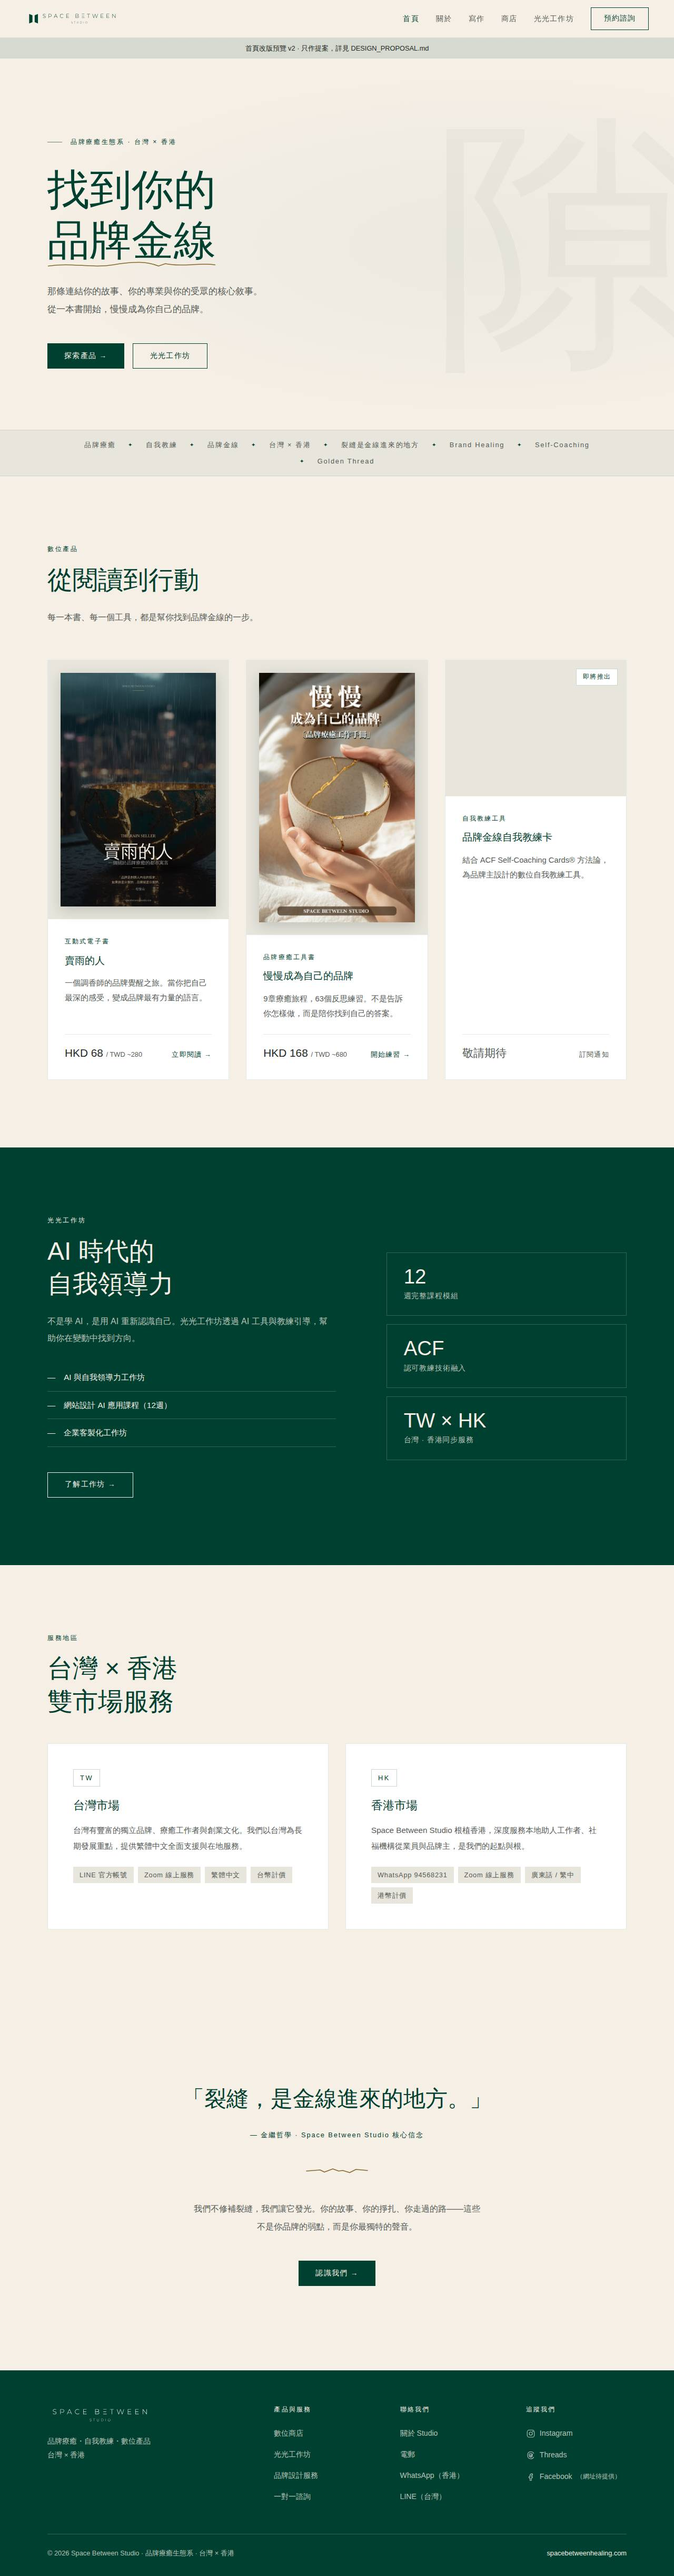
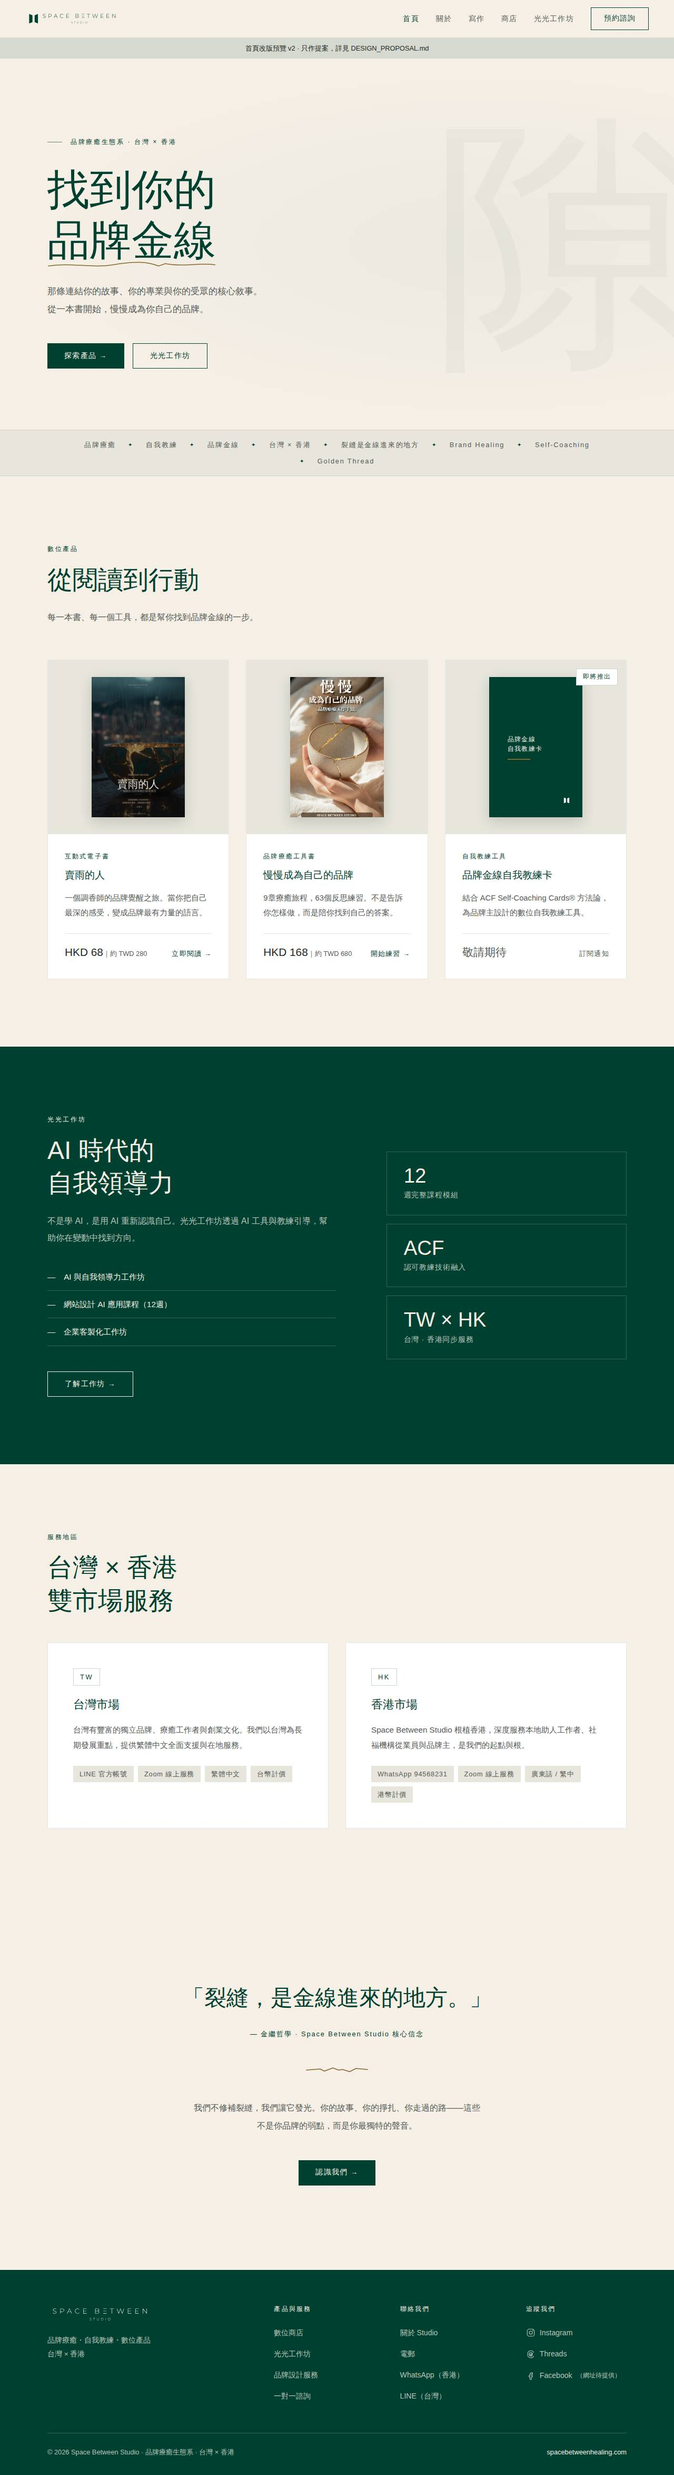
首頁預覽：產品卡改用 2:3 封面＋文字封面，價錢改「HKD 68｜約 TWD 280」；提案加 §8 封面應用
- preview/home-v2.html：賣雨的人、慢慢成為自己的品牌用真實封面；
  品牌金線自我教練卡用文字封面（Rainforest 底、Ivory 書名、細金線、
  白色門・隙符號 32px）；手機 ≤560px 改左圖右文，卡片約 250px 高
- DESIGN_PROPOSAL.md：§2.3 深綠底金線選項、§4 更新（PR #8 已加
  color-scheme，writing/ 仍欠 meta）、§8 封面應用（/writing 書架、
  JSON-LD 合併規則、og:image 套用）
- site-covers.zip 未在 repo，WebP 封面及 writing-snippet 待補

Claude-Session: https://claude.ai/code/session_012DA8veCG83w1Zocv5XQUeZ

diff --git a/preview/home-v2.html b/preview/home-v2.html
@@ -62,6 +62,9 @@
          對 Rainforest 只有 2.24:1 → 深綠區塊內不用 */
       --color-gold-thread: #86672A;
       --gold-thread-width: 1.5px;
+      /* 深綠底上的金線（只用於文字封面）：#86672A 對 Rainforest 只有 2.24:1，屬裝飾線，
+         可見度偏弱；如要更清楚，可改為淺金（見 DESIGN_PROPOSAL.md §2.3，待決定） */
+      --color-gold-thread-on-dark: var(--color-gold-thread);
 
       /* 版面節奏 */
       --section-pad-y: var(--space-4xl);
@@ -317,20 +320,47 @@
       transform: translateY(-4px);
       box-shadow: 0 12px 40px var(--color-shadow);
     }
+    /* 封面框：淺底 + 置中 2:3 直身封面（桌面／平板） */
     .product-cover {
       position: relative;
-      aspect-ratio: 4 / 3;
       display: flex; align-items: center; justify-content: center;
       background: var(--color-surface-alt);
-      padding: var(--space-md);
+      padding: var(--space-lg) var(--space-md);
     }
-    .product-cover img {
-      height: 100%; width: auto;
-      object-fit: contain;
+    .cover {
+      display: block;
+      width: 60%;
+      aspect-ratio: 2 / 3;
       box-shadow: 0 8px 24px var(--color-shadow-strong);
     }
+    img.cover { height: auto; object-fit: cover; }
+
+    /* 文字封面（未有設計稿的產品）：Rainforest 底、Ivory 書名、一條細金線、角落門・隙符號 */
+    .text-cover {
+      position: relative;
+      display: flex; flex-direction: column; justify-content: center;
+      padding: 12% 12%;
+      background: var(--color-rainforest);
+      color: var(--color-ivory);
+      container-type: inline-size;
+    }
+    .text-cover-title {
+      font-size: clamp(0.6rem, 11cqi, 1.5rem);
+      font-weight: var(--font-weight-light);
+      line-height: 1.5; letter-spacing: 0.1em;
+      word-break: keep-all;
+    }
+    .text-cover-thread {
+      width: 40%; height: var(--gold-thread-width);
+      margin-top: 10%;
+      background: var(--color-gold-thread-on-dark);
+    }
+    .text-cover-symbol {
+      position: absolute; right: 8%; bottom: 6%;
+      width: 32px; height: 32px;   /* 符號最小 32×32px */
+    }
     .product-badge {
-      position: absolute; top: var(--space-sm); right: var(--space-sm);
+      position: absolute; top: var(--space-sm); right: var(--space-sm); z-index: 1;
       padding: var(--space-3xs) var(--space-xs);
       background: var(--color-surface);
       border: 1px solid var(--color-line);
@@ -346,7 +376,7 @@
       border-top: 1px solid var(--color-line-soft); padding-top: var(--space-sm);
     }
     .product-price { font-family: var(--font-display); font-size: 1.3rem; font-weight: var(--font-weight-light); color: var(--color-text); }
-    .product-price span { font-size: 0.8rem; color: var(--color-text-muted); }
+    .product-price span { font-size: 0.8rem; color: var(--color-text-muted); white-space: nowrap; }
     .product-cta { font-size: 0.8rem; letter-spacing: 0.1em; color: var(--color-accent); }
     .is-muted { color: var(--color-text-muted); }
 
@@ -475,6 +505,22 @@
       .footer-inner > :first-child { grid-column: 1 / -1; }
       .footer-bottom { flex-direction: column; align-items: flex-start; }
     }
+    /* 手機：左圖右文，封面欄約 40% 闊，卡片高度 ≈ 封面高度 */
+    @media (max-width: 560px) {
+      .product-grid { gap: var(--space-md); }
+      .product-card { display: grid; grid-template-columns: 40% 1fr; align-items: stretch; }
+      .product-cover { padding: var(--space-xs); align-items: flex-start; }
+      .text-cover { padding: 12% 10%; }
+      .cover { width: 100%; }
+      .product-badge { top: auto; bottom: var(--space-xs); left: 50%; right: auto; transform: translateX(-50%); white-space: nowrap; font-size: 0.7rem; }
+      .product-body { padding: var(--space-sm) var(--space-sm) var(--space-sm) var(--space-xs); }
+      .product-tag { font-size: 0.7rem; letter-spacing: 0.12em; }
+      .product-name { font-size: 1.05rem; margin-bottom: var(--space-3xs); }
+      .product-desc { font-size: 0.85rem; line-height: 1.75; margin-bottom: var(--space-xs);
+        display: -webkit-box; -webkit-line-clamp: 3; -webkit-box-orient: vertical; overflow: hidden; }
+      .product-footer { flex-direction: column; align-items: flex-start; gap: var(--space-3xs); padding-top: var(--space-xs); }
+      .product-price { font-size: 1.1rem; }
+    }
     @media (max-width: 400px) {
       .workshop-stats { grid-template-columns: 1fr; }
       .workshop-stat { display: flex; align-items: baseline; gap: var(--space-sm); }
@@ -546,14 +592,14 @@
 
           <a href="../shop/rain.html" class="product-card">
             <div class="product-cover">
-              <img src="../images/rain-seller-cover-new.jpg" alt="《賣雨的人》封面" width="1600" height="2400" loading="lazy" decoding="async">
+              <img class="cover" src="../images/rain-seller-cover-new.jpg" alt="《賣雨的人》封面" width="1600" height="2400" loading="lazy" decoding="async">
             </div>
             <div class="product-body">
               <p class="product-tag">互動式電子書</p>
               <h3 class="product-name">賣雨的人</h3>
               <p class="product-desc">一個調香師的品牌覺醒之旅。當你把自己最深的感受，變成品牌最有力量的語言。</p>
               <div class="product-footer">
-                <p class="product-price">HKD 68 <span>/ TWD ~280</span></p>
+                <p class="product-price">HKD 68<span>｜約 TWD 280</span></p>
                 <span class="product-cta">立即閱讀 →</span>
               </div>
             </div>
@@ -561,14 +607,14 @@
 
           <a href="../shop/brand.html" class="product-card">
             <div class="product-cover">
-              <img src="../images/manman-cover.jpg" alt="《慢慢成為自己的品牌》封面" width="1250" height="2000" loading="lazy" decoding="async">
+              <img class="cover" src="../images/manman-cover.jpg" alt="《慢慢成為自己的品牌》封面" width="1250" height="2000" loading="lazy" decoding="async">
             </div>
             <div class="product-body">
               <p class="product-tag">品牌療癒工具書</p>
               <h3 class="product-name">慢慢成為自己的品牌</h3>
               <p class="product-desc">9章療癒旅程，63個反思練習。不是告訴你怎樣做，而是陪你找到自己的答案。</p>
               <div class="product-footer">
-                <p class="product-price">HKD 168 <span>/ TWD ~680</span></p>
+                <p class="product-price">HKD 168<span>｜約 TWD 680</span></p>
                 <span class="product-cta">開始練習 →</span>
               </div>
             </div>
@@ -577,6 +623,11 @@
           <div class="product-card">
             <div class="product-cover">
               <span class="product-badge">即將推出</span>
+              <div class="cover text-cover" role="img" aria-label="《品牌金線自我教練卡》文字封面">
+                <p class="text-cover-title" aria-hidden="true">品牌金線<br>自我教練卡</p>
+                <span class="text-cover-thread" aria-hidden="true"></span>
+                <img class="text-cover-symbol" src="../assets/logo/SYMBOL/SBS_SYMBOL_WH.svg" alt="" width="32" height="32">
+              </div>
             </div>
             <div class="product-body">
               <p class="product-tag">自我教練工具</p>
